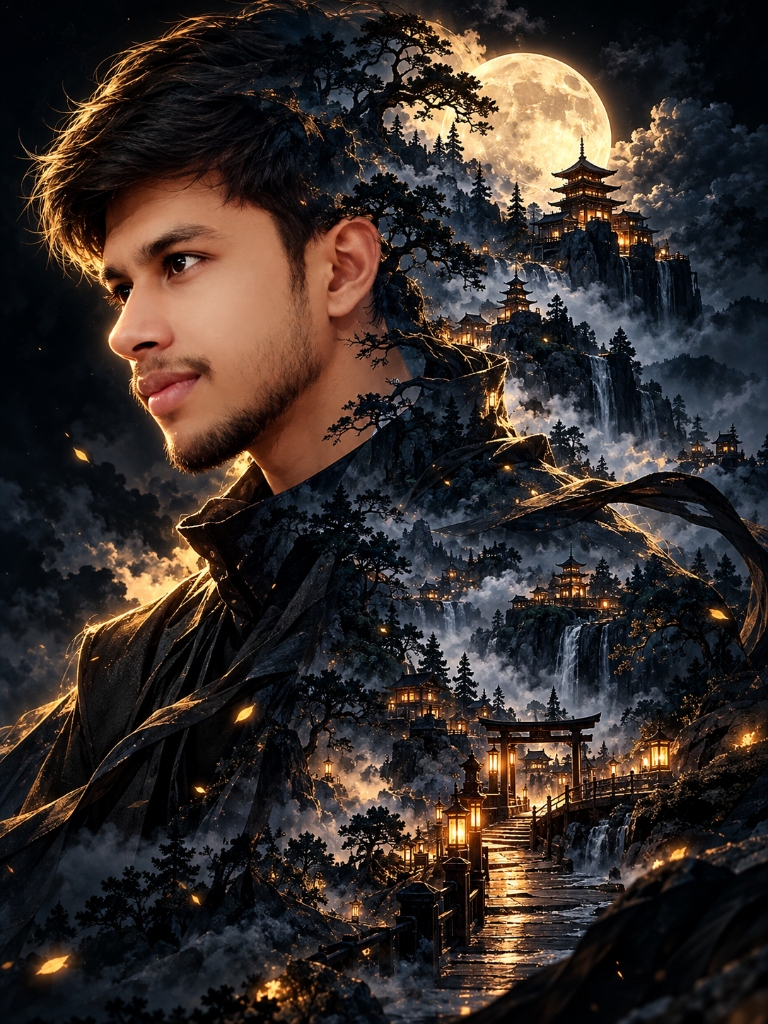
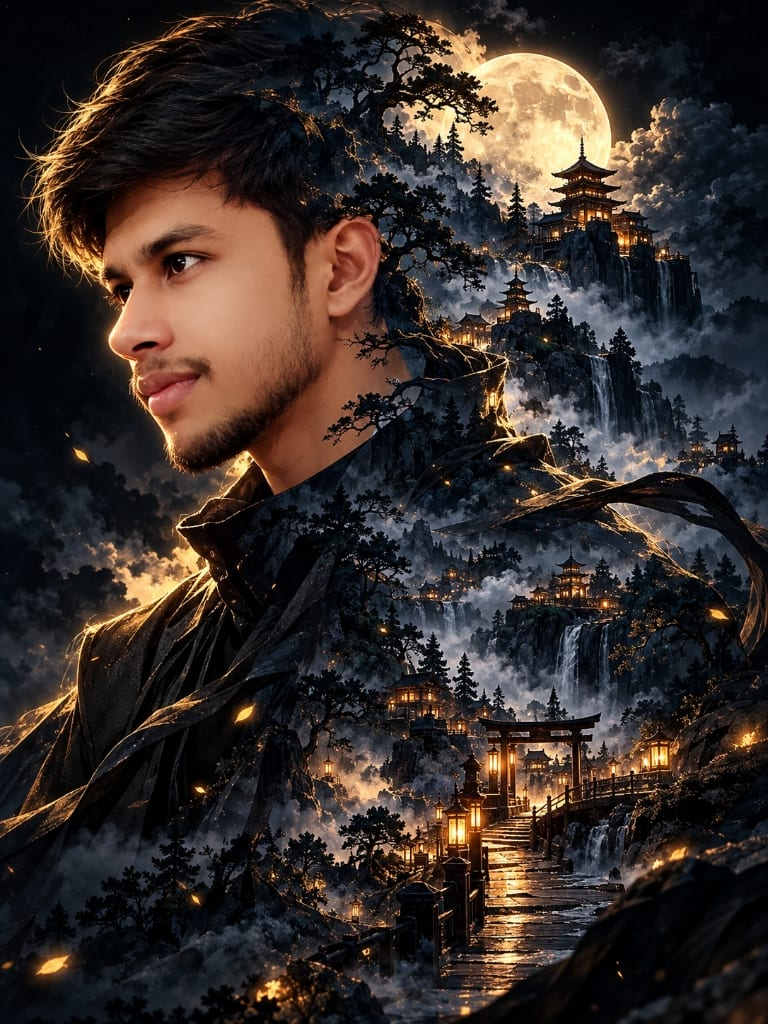
feat(theme): implement Phase 3 two-column hero with optimized portrait and 5-second proof strip

diff --git a/components/portfolio/hero.tsx b/components/portfolio/hero.tsx
@@ -1,65 +1,115 @@
 import React from "react";
-import { ArrowRight } from "lucide-react";
+import Image from "next/image";
+import { ArrowRight, MessageSquare } from "lucide-react";
 import { Button } from "@/components/ui/button";
-import { StatusBadge } from "@/components/ui/status-badge";
-import { HeroSystemDiagram } from "@/components/diagrams/hero-system-diagram";
 import { Container } from "@/components/ui/container";
+import { BRAND_CONFIG } from "./brand-config";
 
 export function Hero() {
   return (
-    <section className="relative pt-12 pb-20 md:pt-20 md:pb-28 overflow-hidden bg-ambient-glow">
+    <section className="relative pt-12 pb-16 md:pt-20 md:pb-24 lg:pt-24 lg:pb-32 overflow-hidden hero-gold-glow">
       <Container>
-        <div className="flex flex-col items-start gap-6 max-w-3xl">
-          {/* Eyebrow & Status */}
-          <div className="flex flex-wrap items-center gap-3">
-            <StatusBadge status="Available for select opportunities" available={true} />
-            <span className="hidden sm:inline-flex items-center gap-1.5 text-xs font-mono text-[#71717a]">
-              <span>Lahore, Pakistan</span>
-              <span>•</span>
-              <span>UTC+5</span>
-            </span>
+        <div className="grid grid-cols-1 lg:grid-cols-12 gap-12 lg:gap-8 items-center">
+          {/* Left Column: Copy, Identity, CTAs, Proof Strip (7 cols on lg) */}
+          <div className="lg:col-span-7 flex flex-col items-start gap-6 max-w-2xl">
+            {/* 1. Role line & Geographic meta */}
+            <div className="flex flex-wrap items-center gap-2.5 text-xs font-mono">
+              <span className="text-accent font-semibold tracking-wide uppercase">
+                {BRAND_CONFIG.role}
+              </span>
+              <span className="text-border-strong" aria-hidden="true">•</span>
+              <span className="text-text-muted">
+                {BRAND_CONFIG.location} ({BRAND_CONFIG.timezone})
+              </span>
+            </div>
+
+            {/* 2. Main Headline (LCP Candidate: No opacity-0 animations) */}
+            <h1 className="text-display text-text font-semibold tracking-tight">
+              Backend systems built for{" "}
+              <span className="text-signature-gradient font-bold">production</span>{" "}
+              resilience.
+            </h1>
+
+            {/* 3. Supporting sentence (<= 24 words from existing copy) */}
+            <p className="text-body-lg text-text-muted leading-relaxed max-w-xl">
+              {BRAND_CONFIG.bioSentence}
+            </p>
+
+            {/* 4. Action CTAs */}
+            <div className="flex flex-wrap items-center gap-4 pt-2 w-full sm:w-auto">
+              <Button
+                variant="primary"
+                size="lg"
+                href="#featured-work"
+                className="w-full sm:w-auto group min-h-[48px] px-6 text-sm font-semibold"
+              >
+                <span>View projects</span>
+                <ArrowRight
+                  className="w-4 h-4 ml-2 transition-transform duration-200 group-hover:translate-x-1"
+                  aria-hidden="true"
+                />
+              </Button>
+              <Button
+                variant="secondary"
+                size="lg"
+                href="/contact"
+                className="w-full sm:w-auto min-h-[48px] px-6 text-sm font-medium"
+              >
+                <MessageSquare className="w-4 h-4 mr-2 text-text-muted" aria-hidden="true" />
+                <span>Get in touch</span>
+              </Button>
+            </div>
+
+            {/* 5. Proof Strip (from verified fallback data) */}
+            <div className="pt-6 mt-2 border-t border-border w-full grid grid-cols-1 sm:grid-cols-3 gap-4 text-xs font-mono text-text-muted">
+              <div className="flex flex-col gap-1">
+                <span className="text-text font-semibold text-sm">4 Flagship Projects</span>
+                <span className="text-text-faint">AI & Distributed Systems</span>
+              </div>
+              <div className="flex flex-col gap-1 border-t sm:border-t-0 sm:border-l border-border sm:pl-4 pt-2 sm:pt-0">
+                <span className="text-text font-semibold text-sm">Core Stack</span>
+                <span className="text-text-faint">Node.js • AI/RAG • Postgres</span>
+              </div>
+              <div className="flex flex-col gap-1 border-t sm:border-t-0 sm:border-l border-border sm:pl-4 pt-2 sm:pt-0">
+                <span className="text-text font-semibold text-sm">Experience</span>
+                <span className="text-text-faint">Zweidevs • Cinqdev • StepInn</span>
+              </div>
+            </div>
           </div>
 
-          {/* Main Headline */}
-          <h1 className="text-4xl sm:text-5xl lg:text-6xl font-bold tracking-tight text-white leading-[1.1]">
-            Backend-Focused <br />
-            <span className="text-[#a1a1aa] font-normal">Full Stack Engineer.</span>
-          </h1>
+          {/* Right Column: The Portrait Frame (5 cols on lg) */}
+          <div className="lg:col-span-5 flex justify-center lg:justify-end w-full">
+            <div className="relative w-full max-w-[420px] lg:max-w-[460px] aspect-[3/4] max-h-[620px] rounded-2xl p-1 bg-surface border border-border shadow-[0_0_50px_rgba(242,184,100,0.12)] transition-all duration-300">
+              {/* Outer soft edge vignette / blend */}
+              <div className="relative w-full h-full rounded-[14px] overflow-hidden bg-bg-elevated">
+                <Image
+                  src={BRAND_CONFIG.portrait.src}
+                  alt={BRAND_CONFIG.portrait.alt}
+                  fill
+                  priority
+                  sizes="(max-width: 640px) 90vw, (max-width: 1024px) 420px, 460px"
+                  className="object-cover rounded-[14px] transition-transform duration-700 hover:scale-[1.01]"
+                  style={{ objectPosition: "50% 20%" }}
+                  quality={85}
+                />
+                {/* Soft gradient mask blending outer lower edge into --bg */}
+                <div
+                  className="pointer-events-none absolute inset-0 bg-gradient-to-t from-bg via-transparent to-transparent opacity-40"
+                  aria-hidden="true"
+                />
+                <div
+                  className="pointer-events-none absolute inset-0 rounded-[14px] border border-white/[0.06]"
+                  aria-hidden="true"
+                />
+              </div>
 
-          {/* Subtitle */}
-          <p className="text-lg sm:text-xl text-[#a1a1aa] max-w-2xl leading-relaxed">
-            I engineer reliable backend systems, intelligent AI/RAG pipelines, and high-performance SaaS applications designed for production resilience.
-          </p>
-
-          {/* Action CTAs */}
-          <div className="flex flex-wrap items-center gap-3 pt-2">
-            <Button variant="accent" size="lg" href="#featured-work">
-              <span>View Selected Work</span>
-              <ArrowRight className="w-4 h-4 ml-1" />
-            </Button>
-            <Button variant="secondary" size="lg" href="/contact">
-              <span>Start Conversation</span>
-            </Button>
+              {/* Ambient moonlit gold backlight */}
+              <div
+                className="pointer-events-none absolute -bottom-6 -right-6 w-48 h-48 rounded-full bg-accent/15 blur-3xl"
+                aria-hidden="true"
+              />
+            </div>
           </div>
-
-          {/* Core Stack Pill Row */}
-          <div className="pt-4 flex flex-wrap items-center gap-x-4 gap-y-2 text-xs font-mono text-[#71717a]">
-            <span className="text-[#a1a1aa] font-medium">Core Stack:</span>
-            <span className="text-[#fafafa]">Node.js</span>
-            <span>•</span>
-            <span className="text-[#fafafa]">AI / RAG</span>
-            <span>•</span>
-            <span className="text-[#fafafa]">PostgreSQL</span>
-            <span>•</span>
-            <span className="text-[#fafafa]">Next.js</span>
-            <span>•</span>
-            <span className="text-[#fafafa]">Docker</span>
-          </div>
-        </div>
-
-        {/* Hero Visual System Diagram */}
-        <div className="mt-12 lg:mt-16 w-full">
-          <HeroSystemDiagram />
         </div>
       </Container>
     </section>

diff --git a/components/portfolio/brand-config.ts b/components/portfolio/brand-config.ts
@@ -1,0 +1,23 @@
+/**
+ * Central configuration for brand imagery and owner constants.
+ * Sourced in one place so the picture or copy can be swapped without touching components.
+ */
+export const BRAND_CONFIG = {
+  name: "Ghulam Qadir",
+  role: "Backend-Focused Full Stack Engineer",
+  location: "Lahore, Pakistan",
+  timezone: "UTC+5",
+  headline: "Backend-Focused Full Stack Engineer",
+  headlineWord1: "Backend-Focused",
+  headlineWord2: "Full Stack",
+  headlineWord3: "Engineer",
+  portrait: {
+    src: "/images/portrait.webp",
+    fallbackSrc: "/images/portrait.jpg",
+    width: 768,
+    height: 1024,
+    alt: "Portrait of Ghulam Qadir with a moonlit mountain temple scene blended into his silhouette",
+  },
+  bioSentence:
+    "I engineer reliable backend systems, intelligent AI/RAG pipelines, and high-performance SaaS applications designed for production resilience.",
+};

diff --git a/theme/PROGRESS.md b/theme/PROGRESS.md
@@ -7,9 +7,9 @@
 | :--- | :--- | :--- | :--- | :--- |
 | **Phase 0** | Read-only review, baseline screenshots, Lighthouse & JS metrics, portrait inspection | **COMPLETE** | `4ad7f7d` | Passed |
 | **Phase 1** | Design tokens (@theme in globals.css, contrast-check script, alternate palettes, typography) | **COMPLETE** | `cb42f0e` | Passed |
-| **Phase 2** | Shell & UI primitives (Header, Footer, Button, Card, Badge, Input, focus rings) | **COMPLETE** | *pending commit* | Passed |
-| **Phase 3** | Hero with portrait (5-second test, proof strip, 2-column layout, optimized image) | *In Progress* | — | — |
-| **Phase 4** | Homepage sections (How I build band, expertise cards, lead project card, philosophy teaser) | *Pending* | — | — |
+| **Phase 2** | Shell & UI primitives (Header, Footer, Button, Card, Badge, Input, focus rings) | **COMPLETE** | `af9e92d` | Passed |
+| **Phase 3** | Hero with portrait (5-second test, proof strip, 2-column layout, optimized image) | **COMPLETE** | *pending commit* | Passed |
+| **Phase 4** | Homepage sections (How I build band, expertise cards, lead project card, philosophy teaser) | *In Progress* | — | — |
 | **Phase 5** | Inner pages (/about, /projects, /projects/[slug], /experience, /contact, 404, /login) | *Pending* | — | — |
 | **Phase 6** | Brand & metadata assets (favicon, OG image, print CSS, theme-color) | *Pending* | — | — |
 | **Phase 7** | Final verification (after screenshots, Lighthouse comparison, contrast check, gate block) | *Pending* | — | — |
